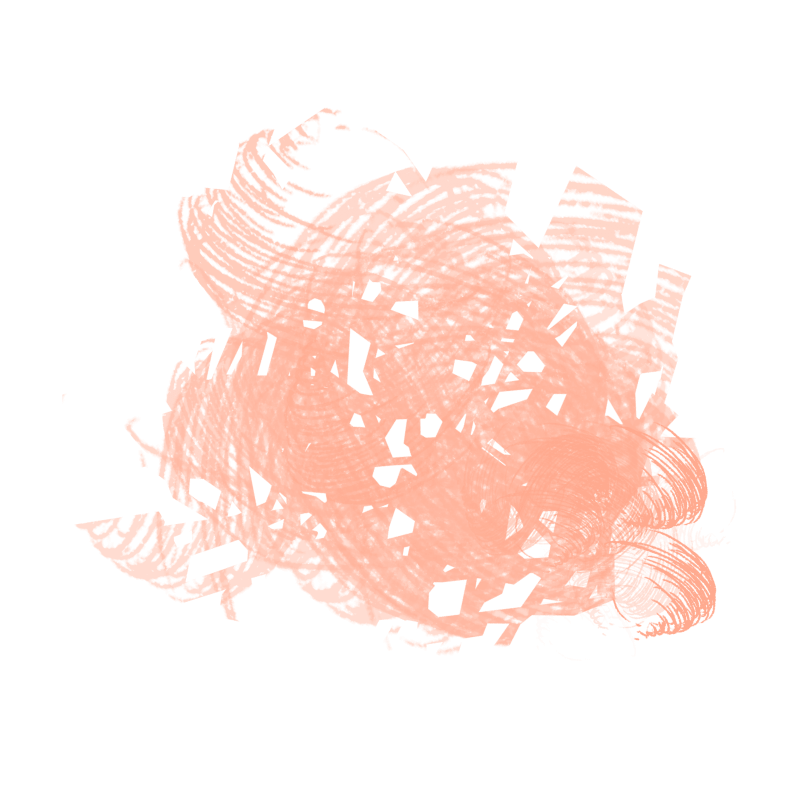
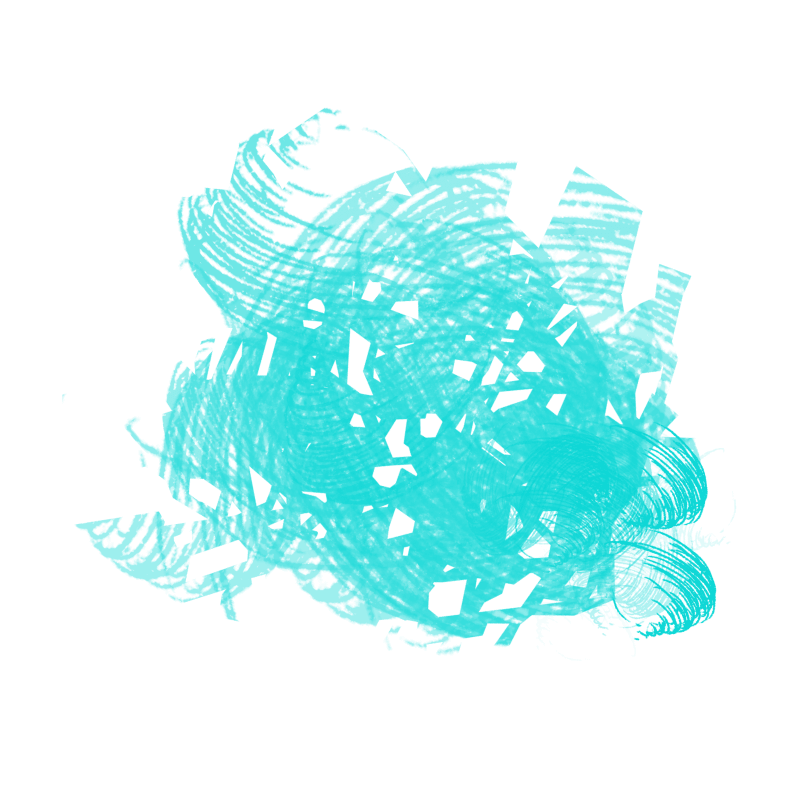
aligning design with CHIPS

Changed region(s): [[0.0932, 0.125, 0.9006, 0.8125]]

diff --git a/assets/scss/_buttons.scss b/assets/scss/_buttons.scss
@@ -115,7 +115,7 @@
   &-links {
     background: transparent;
     color: $color-primary;
-    border: 1px solid rgba(229, 59, 42, 0.3);
+    border: 1px solid $color-primary-transparent;
     position: relative;
     transition: all 0.3s ease-in-out;
 
@@ -127,13 +127,13 @@
     &:hover {
       color: $color-white;
       background: $color-primary;
-      border: $base-border-width solid rgba(229, 59, 42, 0.3);
+      border: $base-border-width solid $color-primary-transparent;
     }
   }
   &-white {
     color: $color-primary;
     background: $color-white;
-    border: 1px solid $color-secondary-light;
+    border: 1px solid $color-primary-transparent;
     font-weight: 700;
 
     &:hover {

diff --git a/assets/scss/_variables.scss b/assets/scss/_variables.scss
@@ -18,14 +18,15 @@ $color-cyan: #808080;
 $color-cyan-dark: #f3f3f3;
 $color-cyan-light: #5f5f5f;
 $color-gray-light: #fdfdfd;
-$color-gray-dark: #fff4f2;
-$color-primary: #e53b2a;
+$color-gray-dark: #1424ac0a;
+$color-primary: #1424ac;
 $color-primary-light: #e6ebf4;
-$color-primary-dark: #e8e8e8;
+$color-primary-dark: #0f1a80;
+$color-primary-transparent: rgba(20, 36, 172, 0.3);
 $color-secondary: #fffbf3;
 $color-secondary-dark: #f7f8fa;
-$color-secondary-light: #ffe1dd;
-$color-anchor: #ffba08;
+$color-secondary-light: #aef9f9;
+$color-anchor: #0ecccb;
 $color-anchor-dark: #ffebb5;
 
 $color-header: #000;

diff --git a/assets/scss/components/_pricing.scss b/assets/scss/components/_pricing.scss
@@ -277,7 +277,7 @@
           font-family: $font-primary;
           font-weight: 600;
           margin: 0 10px;
-          border: 1px solid rgba(229, 59, 42, 0.3);
+          border: 1px solid $color-primary-transparent;
         }
         .active {
           background: $color-primary;

diff --git a/component-library/components/home/hero/hero.hugo.html b/component-library/components/home/hero/hero.hugo.html
@@ -1,7 +1,4 @@
 <section class="hero-two">
-  <div class="hero-two-shape">
-    <img src="/images/hero/hero-two-shape.png" alt="shape" />
-  </div>
   <div class="container-fluid">
     <div class="row align-items-center">
       <div class="col-lg-6">

diff --git a/assets/scss/components/_navbar.scss b/assets/scss/components/_navbar.scss
@@ -149,7 +149,7 @@
         visibility: visible;
         transform: scaleY(0);
         top: 100%;
-        border: 1px solid $color-secondary-light;
+        border: 1px solid $color-primary-light;
         transform-origin: 0 0 0;
       }
 

diff --git a/assets/scss/components/_hero.scss b/assets/scss/components/_hero.scss
@@ -153,7 +153,8 @@
       margin-right: -13px;
       z-index: 1;
       img {
-        border-radius: 0px;
+        max-height: 700px;
+        border-radius: 20px 0 0 20px;
       }
       &-shape {
         position: absolute;

diff --git a/content/_index.md b/content/_index.md
@@ -7,7 +7,7 @@ content_blocks:
       description: >-
          With Sendit, you can quickly create beautiful rich emails that capture
          a reader's attention, engage them, and convert them into customers.
-      image_path: /images/hero/hero-image-2.png
+      image_path: /images/hero/home-hero.jpg
       link:
          text: Try This Free
          url: /sign-up
